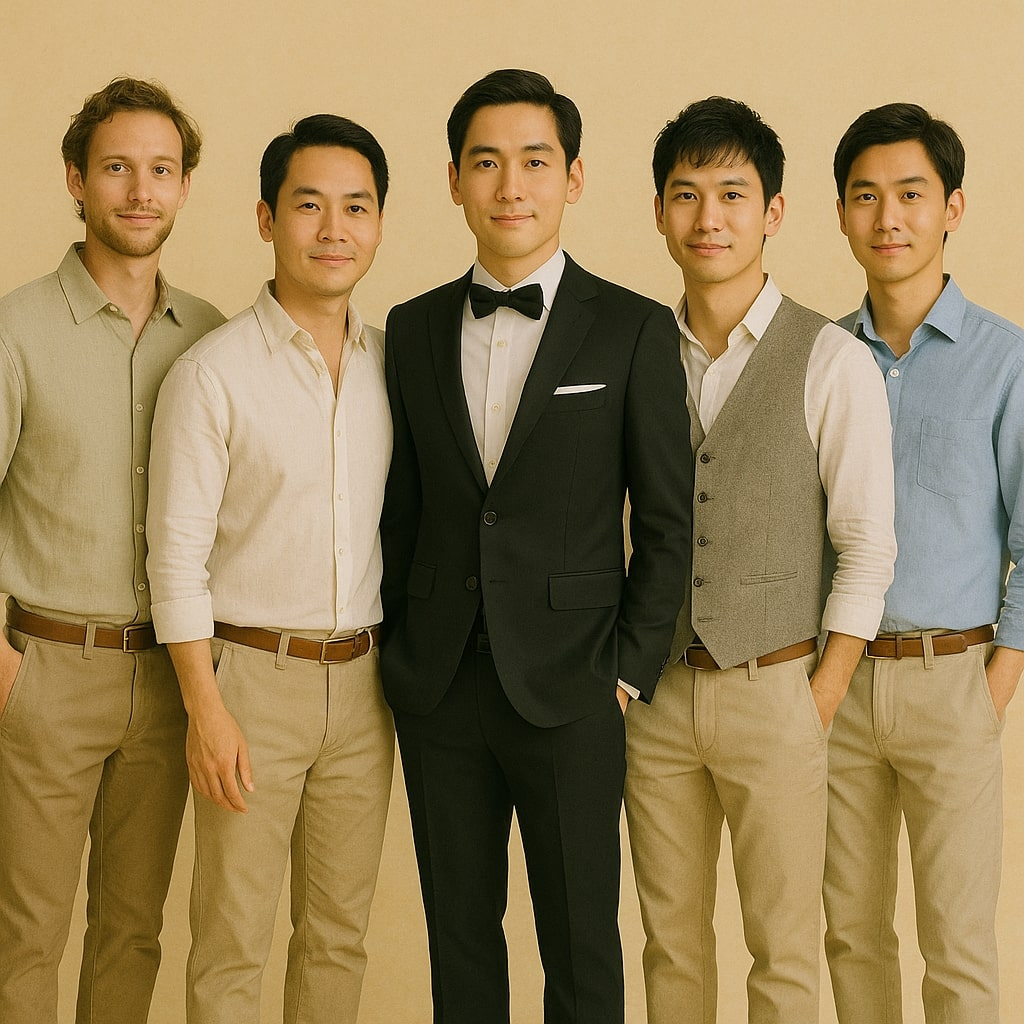
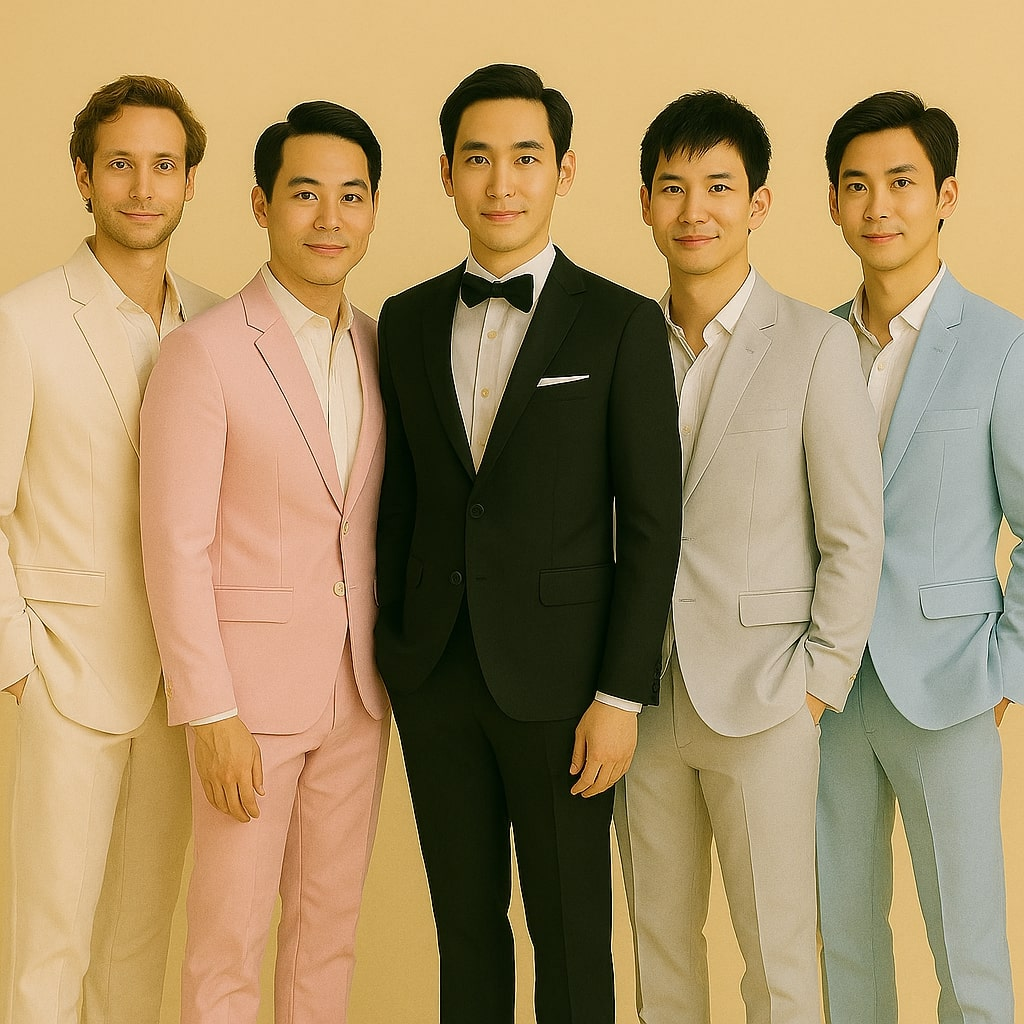
update small things

diff --git a/app/[location]/InvitationPage.tsx b/app/[location]/InvitationPage.tsx
@@ -197,7 +197,7 @@ export default function InvitationPage({
                             alt={'Baby breath'}
                             width={200}
                             height={100}
-                            className="absolute rotate-90 -top-0 -left-16"
+                            className="absolute rotate-90 -top-0 -left-16 pointer-events-none"
                         />
                         <SectionTitle title="FAQ" color="secondary" />
                         <div className="w-full px-8">
@@ -208,9 +208,9 @@ export default function InvitationPage({
                             alt={'Baby breath'}
                             width={200}
                             height={100}
-                            className="absolute -rotate-180 bottom-12 -right-10"
+                            className="absolute -rotate-180 bottom-12 -right-10 pointer-events-none"
                         />
-                        <div className="section-transition-secondary" />
+                        <div className="section-transition-secondary-fix" />
                     </section>
                     {/* Dress code */}
                     <section className="pt-52 px-6 relative w-full overflow-hidden pb-12">

diff --git a/app/components/Modal.tsx b/app/components/Modal.tsx
@@ -27,10 +27,10 @@ const Modal: FC<PropsWithChildren<ModalProps>> = ({ children, open, onClose }) =
             {open ? (
                 <div className="fixed h-dvh w-full top-0 left-0 z-40">
                     {/* Backdrop */}
-                    <div className="bg-black opacity-50 w-full h-full" />
+                    <div className="bg-black opacity-50 w-full h-full" onClick={onClose} />
                     {/* Drawer */}
                     <motion.div
-                        className="w-[80%] h-full bg-white absolute top-0 right-0"
+                        className="w-[80%] max-w-[25rem] h-full bg-white absolute top-0 right-0"
                         variants={modalSlide}
                         animate="enter"
                         exit={'exit'}

diff --git a/app/globals.css b/app/globals.css
@@ -18,7 +18,7 @@ html {
     background-image: url('/images/white_bg.jpg');
     background-repeat: repeat;
     background-size: 1550px auto; /* Shrink width, auto height */
-    opacity: 0.1;
+    opacity: 0.075;
     mix-blend-mode: overlay;
     pointer-events: none;
     z-index: -10;
@@ -37,6 +37,17 @@ body.locked {
     content: '';
     width: 108%;
     height: 5%;
+    position: absolute;
+    left: 50%;
+    bottom: 0%;
+    transform: translate(-50%, 0%);
+    background: linear-gradient(180deg, var(--background-primary) 0%, var(--secondary-main) 100%);
+}
+
+.section-transition-secondary-fix {
+    content: '';
+    width: 108%;
+    height: 50px;
     position: absolute;
     left: 50%;
     bottom: 0%;

diff --git a/app/components/dresscode/DressCode.tsx b/app/components/dresscode/DressCode.tsx
@@ -35,8 +35,8 @@ const MenWomenSection = ({ sex }: { sex: 'men' | 'women' }) => (
             <h6 className="text-2xl text-blue-800">{sex === 'women' ? 'Women' : 'Men'}</h6>
             <p className="text-sm">
                 {sex === 'women'
-                    ? 'Something pastel, preferably long, no white and no black 💕👗'
-                    : 'Suit or Blazer paired with pastel colored shirt 🤵 '}
+                    ? 'Something pastel, preferably long, no white and no black 👗'
+                    : 'Suit or Blazer paired with shirt (preferably pastel colored) 🤵 '}
             </p>
         </div>
         <div className="w-1/2 h-full relative p-2 border border-blue-800 rounded-lg">

diff --git a/app/components/rsvp/RSVPForm.tsx b/app/components/rsvp/RSVPForm.tsx
@@ -84,7 +84,7 @@ const RSVPFORM = ({ rsvp }: { rsvp: RSVPForm }) => {
             <p className="mb-4">
                 Please confirm your attendance before:
                 <br />
-                July 15<sup>th</sup>, 2025
+                July 9<sup>th</sup>, 2025
             </p>
             <form onSubmit={handleSubmit(onSubmit)} className="flex-col flex gap-4 text-left">
                 <TextField
